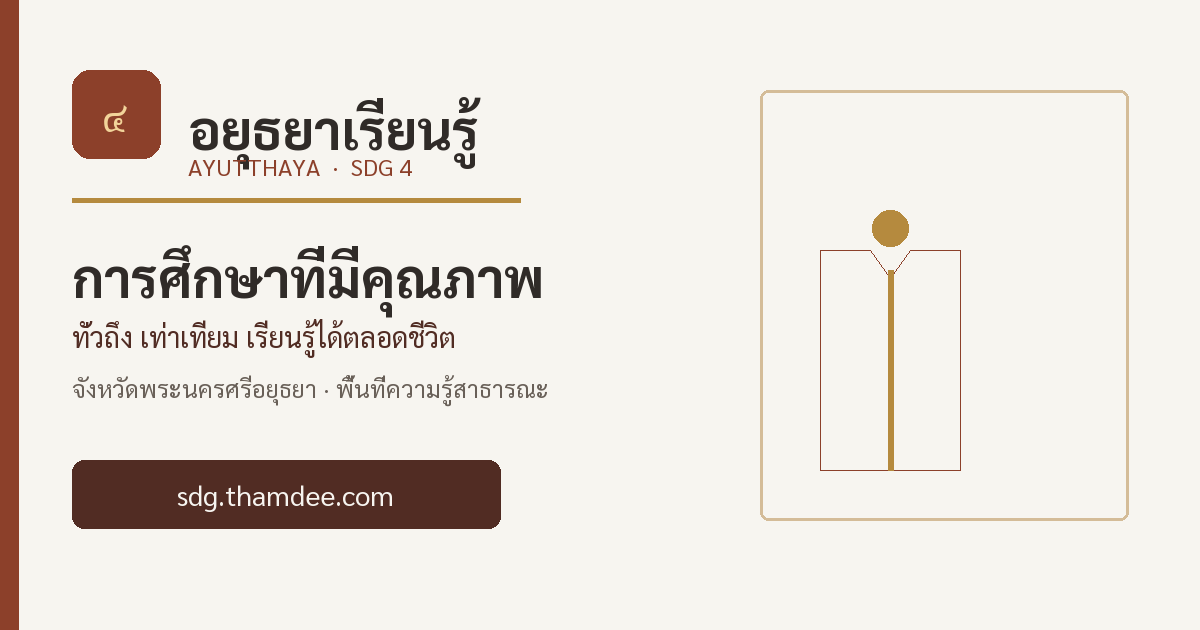
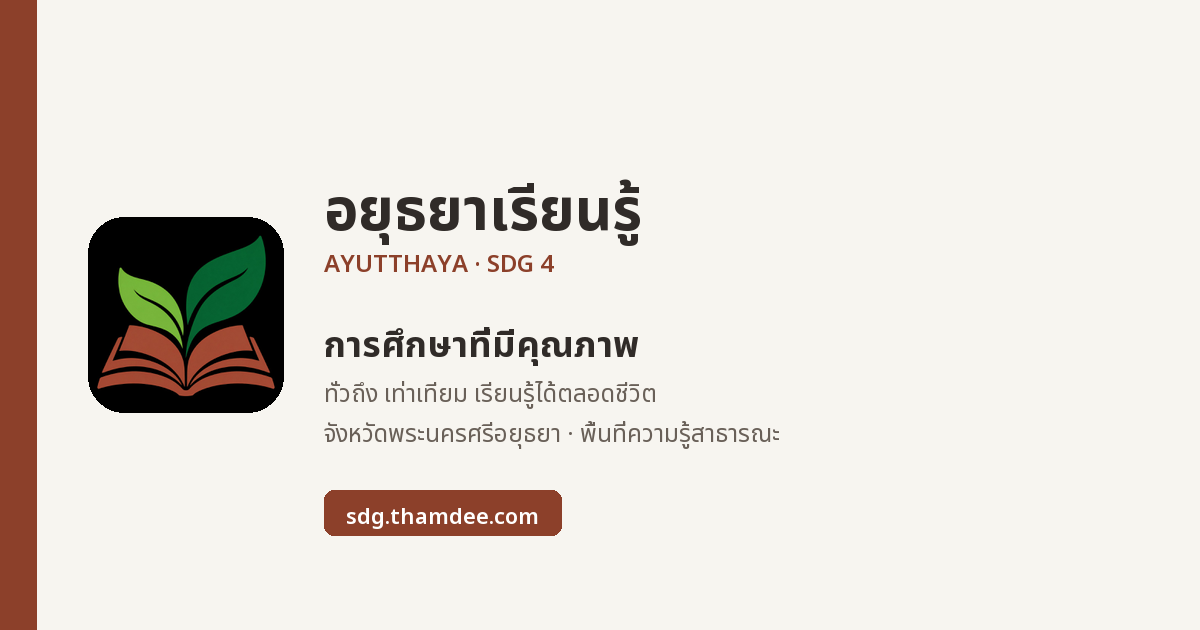
Add images
เพิ่มภาพและโลโก

diff --git a/about.html b/about.html
@@ -8,7 +8,9 @@
 <meta name="author" content="บูรพาทิศ พลอยสุวรรณ์">
 <title>ผู้จัดทำ | อยุธยาเรียนรู้ · SDG 4</title>
 <link rel="canonical" href="https://sdg.thamdee.com/about.html">
-<link rel="icon" type="image/svg+xml" href="assets/favicon.svg">
+<link rel="icon" type="image/png" sizes="32x32" href="assets/favicon-32.png">
+<link rel="icon" type="image/png" sizes="256x256" href="assets/logo.png">
+<link rel="apple-touch-icon" href="assets/apple-touch-icon.png">
 <meta property="og:type" content="website">
 <meta property="og:locale" content="th_TH">
 <meta property="og:site_name" content="อยุธยาเรียนรู้ · SDG 4">
@@ -41,12 +43,17 @@
 <h1>เกี่ยวกับผู้จัดทำ</h1>
 <p>พื้นที่ความรู้เพื่อประโยชน์สาธารณะของชาวอยุธยาและผู้สนใจทั่วไป</p>
 </header>
-
 <div class="article-tools">
 <a class="button secondary" href="content/about.md" download>ดาวน์โหลดเนื้อหา .md</a>
 <button class="print-button" type="button" data-print>พิมพ์เนื้อหา</button>
 </div>
+<div class="author-layout">
+<figure class="author-portrait">
+<img src="assets/author.jpg" alt="บูรพาทิศ พลอยสุวรรณ์ ผู้วิจัยอิสระ ผู้จัดทำเว็บไซต์อยุธยาเรียนรู้ SDG 4" width="320" height="320">
+<figcaption>บูรพาทิศ พลอยสุวรรณ์<br>ผู้วิจัยอิสระ</figcaption>
+</figure>
 <article class="prose" data-markdown="content/about.md"><p class="loading">กำลังโหลดเนื้อหา…</p></article>
+</div>
 </main>
 </div>
 <footer class="site-footer" data-chrome="footer"></footer>

diff --git a/js/site.js b/js/site.js
@@ -43,7 +43,7 @@ function renderChrome() {
     header.innerHTML =
       '<div class="topbar">' +
         '<a href="index.html" class="brand">' +
-          '<span class="brand-mark" aria-hidden="true">๔</span>' +
+          '<img class="brand-logo" src="assets/logo.png" alt="" width="48" height="48">' +
           '<span><strong>' + siteEscape(SITE.name) + '</strong><small>' + siteEscape(SITE.short) + '</small></span>' +
         '</a>' +
         '<span class="public-label">' + siteEscape(SITE.label) + '</span>' +
@@ -66,9 +66,11 @@ function renderChrome() {
   }
   if (footer) {
     footer.innerHTML =
-      '<div><strong>' + siteEscape(SITE.name) + ' · SDG 4</strong>' +
+      '<div class="footer-identity">' +
+        '<img class="footer-logo" src="assets/logo.png" alt="" width="36" height="36">' +
+        '<div><strong>' + siteEscape(SITE.name) + ' · SDG 4</strong>' +
         '<p>จัดทำโดย ' + siteEscape(SITE.author) + ' · ' + siteEscape(SITE.role) + '<br>' +
-        'เว็บไซต์เพื่อประโยชน์สาธารณะ ไม่ใช่เว็บไซต์ทางราชการ</p></div>' +
+        'เว็บไซต์เพื่อประโยชน์สาธารณะ ไม่ใช่เว็บไซต์ทางราชการ</p></div></div>' +
       '<div>' +
         '<a href="about.html">เกี่ยวกับผู้จัดทำ</a>' +
         '<a href="knowledge.html?article=source-notes">ที่มาของข้อมูล</a>' +

diff --git a/css/style.css b/css/style.css
@@ -127,3 +127,14 @@
 @media(max-width:760px){.glossary-list{grid-template-columns:1fr}}
 @media print{#glossary-panel,.search-bar,#article-tags{display:none!important}}
 
+.brand-logo{width:48px;height:48px;border-radius:12px;object-fit:cover;flex:none;background:#111;display:block}
+.footer-identity{display:flex;gap:12px;align-items:flex-start}
+.footer-logo{width:36px;height:36px;border-radius:9px;object-fit:cover;flex:none;background:#111}
+.author-layout{display:grid;grid-template-columns:268px minmax(0,1fr);gap:28px;align-items:start;max-width:1120px}
+.author-portrait{margin:0;background:#fff;border:1px solid var(--line);border-radius:18px;padding:16px;text-align:center;position:sticky;top:20px}
+.author-portrait img{width:100%;height:auto;aspect-ratio:1;object-fit:cover;object-position:center 18%;border-radius:12px;display:block}
+.author-portrait figcaption{margin-top:12px;font-size:.9rem;color:var(--muted);line-height:1.55}
+.author-layout .prose{margin:0;max-width:none}
+@media(max-width:760px){.author-layout{grid-template-columns:1fr}.author-portrait{max-width:240px;width:100%;margin:0 auto;position:static;justify-self:center}.brand-logo{width:42px;height:42px}}
+@media print{.author-layout{grid-template-columns:140px 1fr;max-width:none}.author-portrait{position:static;break-inside:avoid}}
+

diff --git a/implementation.html b/implementation.html
@@ -8,7 +8,9 @@
 <meta name="author" content="บูรพาทิศ พลอยสุวรรณ์">
 <title>กลไกขับเคลื่อน | อยุธยาเรียนรู้ · SDG 4</title>
 <link rel="canonical" href="https://sdg.thamdee.com/implementation.html">
-<link rel="icon" type="image/svg+xml" href="assets/favicon.svg">
+<link rel="icon" type="image/png" sizes="32x32" href="assets/favicon-32.png">
+<link rel="icon" type="image/png" sizes="256x256" href="assets/logo.png">
+<link rel="apple-touch-icon" href="assets/apple-touch-icon.png">
 <meta property="og:type" content="website">
 <meta property="og:locale" content="th_TH">
 <meta property="og:site_name" content="อยุธยาเรียนรู้ · SDG 4">

diff --git a/evaluation.html b/evaluation.html
@@ -8,7 +8,9 @@
 <meta name="author" content="บูรพาทิศ พลอยสุวรรณ์">
 <title>วัดและประเมินผล | อยุธยาเรียนรู้ · SDG 4</title>
 <link rel="canonical" href="https://sdg.thamdee.com/evaluation.html">
-<link rel="icon" type="image/svg+xml" href="assets/favicon.svg">
+<link rel="icon" type="image/png" sizes="32x32" href="assets/favicon-32.png">
+<link rel="icon" type="image/png" sizes="256x256" href="assets/logo.png">
+<link rel="apple-touch-icon" href="assets/apple-touch-icon.png">
 <meta property="og:type" content="website">
 <meta property="og:locale" content="th_TH">
 <meta property="og:site_name" content="อยุธยาเรียนรู้ · SDG 4">

diff --git a/alignment.html b/alignment.html
@@ -8,7 +8,9 @@
 <meta name="author" content="บูรพาทิศ พลอยสุวรรณ์">
 <title>ความเชื่อมโยง | อยุธยาเรียนรู้ · SDG 4</title>
 <link rel="canonical" href="https://sdg.thamdee.com/alignment.html">
-<link rel="icon" type="image/svg+xml" href="assets/favicon.svg">
+<link rel="icon" type="image/png" sizes="32x32" href="assets/favicon-32.png">
+<link rel="icon" type="image/png" sizes="256x256" href="assets/logo.png">
+<link rel="apple-touch-icon" href="assets/apple-touch-icon.png">
 <meta property="og:type" content="website">
 <meta property="og:locale" content="th_TH">
 <meta property="og:site_name" content="อยุธยาเรียนรู้ · SDG 4">

diff --git a/forum.html b/forum.html
@@ -8,7 +8,9 @@
 <meta name="author" content="บูรพาทิศ พลอยสุวรรณ์">
 <title>ร่วมแลกเปลี่ยน | อยุธยาเรียนรู้ · SDG 4</title>
 <link rel="canonical" href="https://sdg.thamdee.com/forum.html">
-<link rel="icon" type="image/svg+xml" href="assets/favicon.svg">
+<link rel="icon" type="image/png" sizes="32x32" href="assets/favicon-32.png">
+<link rel="icon" type="image/png" sizes="256x256" href="assets/logo.png">
+<link rel="apple-touch-icon" href="assets/apple-touch-icon.png">
 <meta property="og:type" content="website">
 <meta property="og:locale" content="th_TH">
 <meta property="og:site_name" content="อยุธยาเรียนรู้ · SDG 4">

diff --git a/knowledge.html b/knowledge.html
@@ -8,7 +8,9 @@
 <meta name="author" content="บูรพาทิศ พลอยสุวรรณ์">
 <title>คลังความรู้ | อยุธยาเรียนรู้ · SDG 4</title>
 <link rel="canonical" href="https://sdg.thamdee.com/knowledge.html">
-<link rel="icon" type="image/svg+xml" href="assets/favicon.svg">
+<link rel="icon" type="image/png" sizes="32x32" href="assets/favicon-32.png">
+<link rel="icon" type="image/png" sizes="256x256" href="assets/logo.png">
+<link rel="apple-touch-icon" href="assets/apple-touch-icon.png">
 <meta property="og:type" content="website">
 <meta property="og:locale" content="th_TH">
 <meta property="og:site_name" content="อยุธยาเรียนรู้ · SDG 4">

diff --git a/ecosystem.html b/ecosystem.html
@@ -8,7 +8,9 @@
 <meta name="author" content="บูรพาทิศ พลอยสุวรรณ์">
 <title>ระบบนิเวศ | อยุธยาเรียนรู้ · SDG 4</title>
 <link rel="canonical" href="https://sdg.thamdee.com/ecosystem.html">
-<link rel="icon" type="image/svg+xml" href="assets/favicon.svg">
+<link rel="icon" type="image/png" sizes="32x32" href="assets/favicon-32.png">
+<link rel="icon" type="image/png" sizes="256x256" href="assets/logo.png">
+<link rel="apple-touch-icon" href="assets/apple-touch-icon.png">
 <meta property="og:type" content="website">
 <meta property="og:locale" content="th_TH">
 <meta property="og:site_name" content="อยุธยาเรียนรู้ · SDG 4">

diff --git a/agencies.html b/agencies.html
@@ -8,7 +8,9 @@
 <meta name="author" content="บูรพาทิศ พลอยสุวรรณ์">
 <title>หน่วยงาน | อยุธยาเรียนรู้ · SDG 4</title>
 <link rel="canonical" href="https://sdg.thamdee.com/agencies.html">
-<link rel="icon" type="image/svg+xml" href="assets/favicon.svg">
+<link rel="icon" type="image/png" sizes="32x32" href="assets/favicon-32.png">
+<link rel="icon" type="image/png" sizes="256x256" href="assets/logo.png">
+<link rel="apple-touch-icon" href="assets/apple-touch-icon.png">
 <meta property="og:type" content="website">
 <meta property="og:locale" content="th_TH">
 <meta property="og:site_name" content="อยุธยาเรียนรู้ · SDG 4">

diff --git a/projects.html b/projects.html
@@ -8,7 +8,9 @@
 <meta name="author" content="บูรพาทิศ พลอยสุวรรณ์">
 <title>โครงการ | อยุธยาเรียนรู้ · SDG 4</title>
 <link rel="canonical" href="https://sdg.thamdee.com/projects.html">
-<link rel="icon" type="image/svg+xml" href="assets/favicon.svg">
+<link rel="icon" type="image/png" sizes="32x32" href="assets/favicon-32.png">
+<link rel="icon" type="image/png" sizes="256x256" href="assets/logo.png">
+<link rel="apple-touch-icon" href="assets/apple-touch-icon.png">
 <meta property="og:type" content="website">
 <meta property="og:locale" content="th_TH">
 <meta property="og:site_name" content="อยุธยาเรียนรู้ · SDG 4">

diff --git a/index.html b/index.html
@@ -8,7 +8,9 @@
 <meta name="author" content="บูรพาทิศ พลอยสุวรรณ์">
 <title>ภาพรวม | อยุธยาเรียนรู้ · SDG 4</title>
 <link rel="canonical" href="https://sdg.thamdee.com/">
-<link rel="icon" type="image/svg+xml" href="assets/favicon.svg">
+<link rel="icon" type="image/png" sizes="32x32" href="assets/favicon-32.png">
+<link rel="icon" type="image/png" sizes="256x256" href="assets/logo.png">
+<link rel="apple-touch-icon" href="assets/apple-touch-icon.png">
 <meta property="og:type" content="website">
 <meta property="og:locale" content="th_TH">
 <meta property="og:site_name" content="อยุธยาเรียนรู้ · SDG 4">
